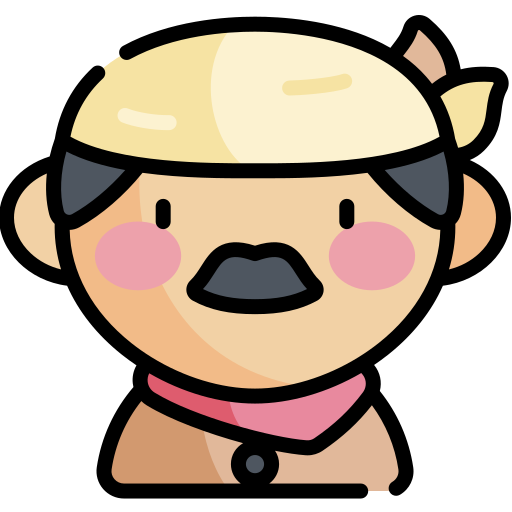
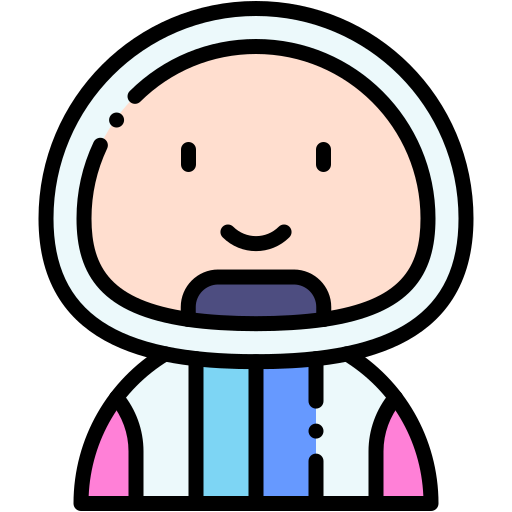
Fixed guidelines

diff --git a/client/templates/guidelines.html b/client/templates/guidelines.html
@@ -51,7 +51,7 @@
       <tr>
         <td>3-2</td>
         <td>2-3</td>
-        <td><strong>1</strong></td>
+        <td><strong>0</strong></td>
         <td>Incorrect result, and neither score is exact</td>
       </tr>
       <tr>